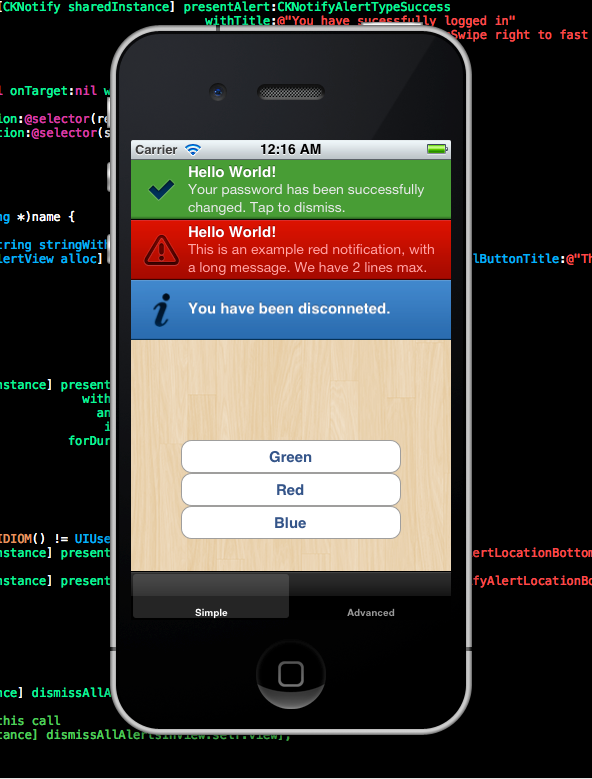
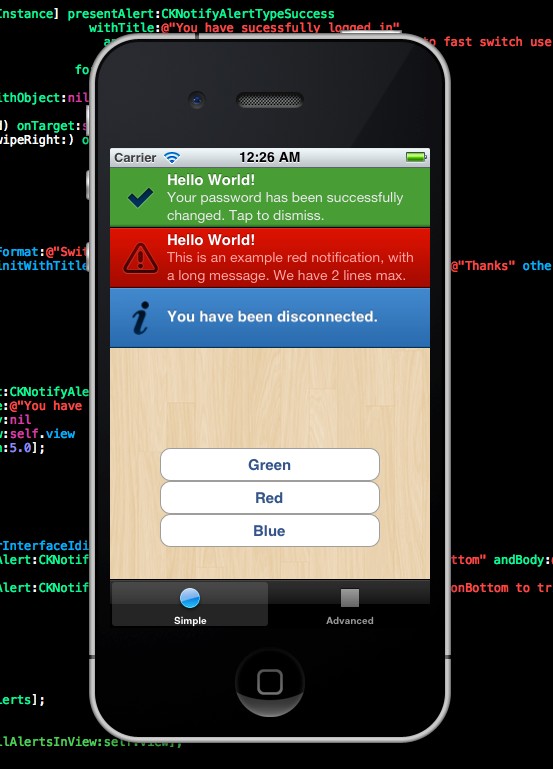
typo fix

Changed region(s): [[0.0, 0.0, 1.0, 0.9675], [0.0, 0.9987, 1.0, 1.0]]

diff --git a/Example/CKNotifyExample/CKNotifyExample/FirstViewController.m b/Example/CKNotifyExample/CKNotifyExample/FirstViewController.m
@@ -84,7 +84,7 @@
 
 - (void)blue {
     
-    [[CKNotify sharedInstance] presentAlert:CKNotifyAlertTypeInfo withTitle:@"You have been disconneted." andBody:nil inView:self.view forDuration:DEMO_DURATION];
+    [[CKNotify sharedInstance] presentAlert:CKNotifyAlertTypeInfo withTitle:@"You have been disconnected." andBody:nil inView:self.view forDuration:DEMO_DURATION];
     
 }
 
